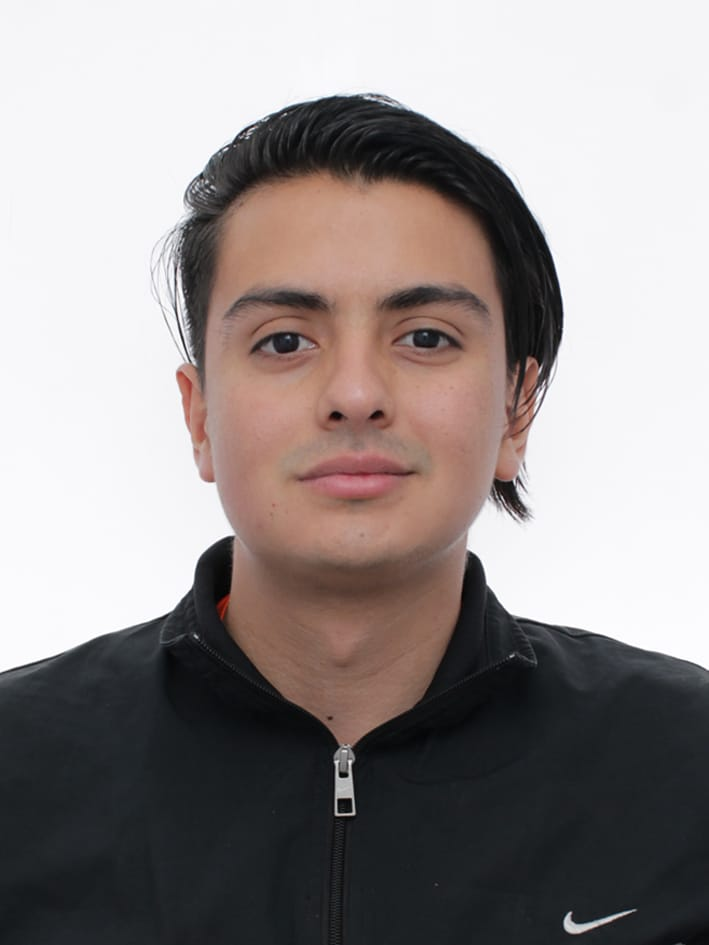
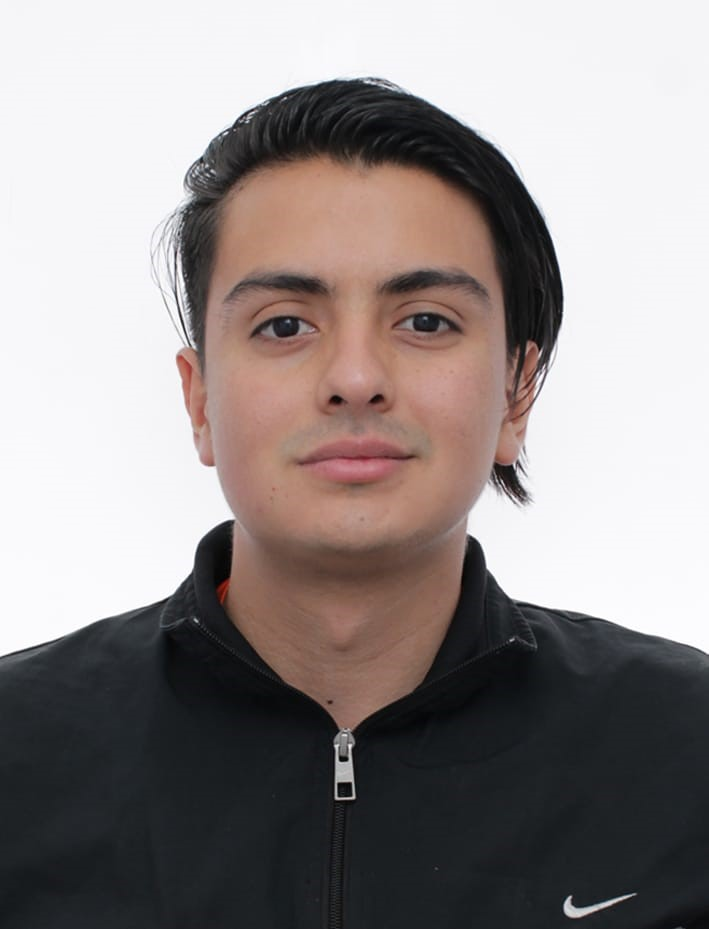
Jose Alejandro Peñaranda Chia: Agregado EDT

diff --git a/index.html b/index.html
@@ -30,7 +30,7 @@
                         <span class="icon-bar"></span>
                         <span class="icon-bar"></span>
                     </button>
-                    <a class="navbar-brand" href="index.html"><img src="images/logo_unal.png" width="180" alt="logo"></a>
+                    <a class="navbar-brand" href="index.html"><img src="images/logo_unal.png" width="140" alt="logo"></a>
                 </div>
 				
                 <div class="collapse navbar-collapse navbar-right">
@@ -159,27 +159,7 @@
                 <h2 class="section-title wow fadeInDown">EDT</h2>
                 <p class="wow fadeInDown">Lorem ipsum dolor sit amet, consectetur adipiscing elit. Praesent eget risus vitae massa <br> semper aliquam quis mattis quam.</p>
             </div>
-
-            <div class="row">
-                <div class="col-sm-6 wow fadeInLeft">
-                  <img class="img-responsive" src="images/about.png" alt="">
-                </div>
-
-                <div class="col-sm-6 wow fadeInRight">
-                    <h3 class="column-title">Our Fitness Studio</h3>
-                    <p>Lorem ipsum dolor sit amet, consectetur adipiscing elit. Praesent eget risus vitae massa semper aliquam quis mattis quam. Morbi vitae tortor tempus, placerat leo et, suscipit lectus. Phasellus ut euismod massa, eu eleifend ipsum.</p>
- <p>Lorem ipsum dolor sit amet, consectetur adipiscing elit. Praesent eget risus vitae massa semper aliquam quis mattis quam adipiscing elit. Praesent eget risus vitae massa.</p>
-<ul class="listarrow">
-<li><i class="fa fa-angle-double-right"></i>Aerobic</li>
-<li><i class="fa fa-angle-double-right"></i>Cardio</li>
-<li><i class="fa fa-angle-double-right"></i>Abdomen</li>
-<li><i class="fa fa-angle-double-right"></i>Special Trainer</li> 
-<li><i class="fa fa-angle-double-right"></i>Round the clock</li>
-</ul>
- 
-
-                </div>
-            </div>
+            <embed src="Documents/EDT MADEMATIC-Alcance.drawio.pdf#zoom=80" type="application/pdf" width="100%" height="700px">
         </div>
     </section><!--/#about-->
 
@@ -512,7 +492,7 @@
                     <div class="col-md-3 col-sm-6 col-xs-12">
                         <div class="team-member wow fadeInUp" data-wow-duration="400ms" data-wow-delay="0ms">
                             <div class="team-img">
-                                <img class="img-responsive" src="images/team/01.jpg" alt="">
+                                <img class="img-responsive" src="images/team/01_1.jpg" alt="">
                             </div>
                             <div class="team-info">
                                 <h3>Nikolai Alexander Cáceres Penagos</h3>
@@ -529,7 +509,7 @@
                     <div class="col-md-3 col-sm-6 col-xs-12">
                         <div class="team-member wow fadeInUp" data-wow-duration="400ms" data-wow-delay="100ms">
                             <div class="team-img">
-                                <img class="img-responsive" src="images/team/02.jpg" alt="">
+                                <img class="img-responsive" src="images/team/01.jpg" alt="">
                             </div>
                             <div class="team-info">
                                 <h3>Javier Eduardo Gutierrez Serrano</h3>

diff --git a/css/styles.css b/css/styles.css
@@ -591,14 +591,16 @@ margin: 0 8px;
 #about {
   padding: 100px 0;
   background: #f1f1f1;
-  background: url('../images/img2.jpg');    
-  background-size: cover;  };
+  /*
+  background: url('../images/img2.jpg'); 
+  */   
+  background-size: cover;
 }
 #about .column-title{
-color:#fff;
+color:#000000;
 }
 #about p{
-color:#fff;
+color:var(--my-color);
 }
 #about .listarrow li{
 color:#fff;
